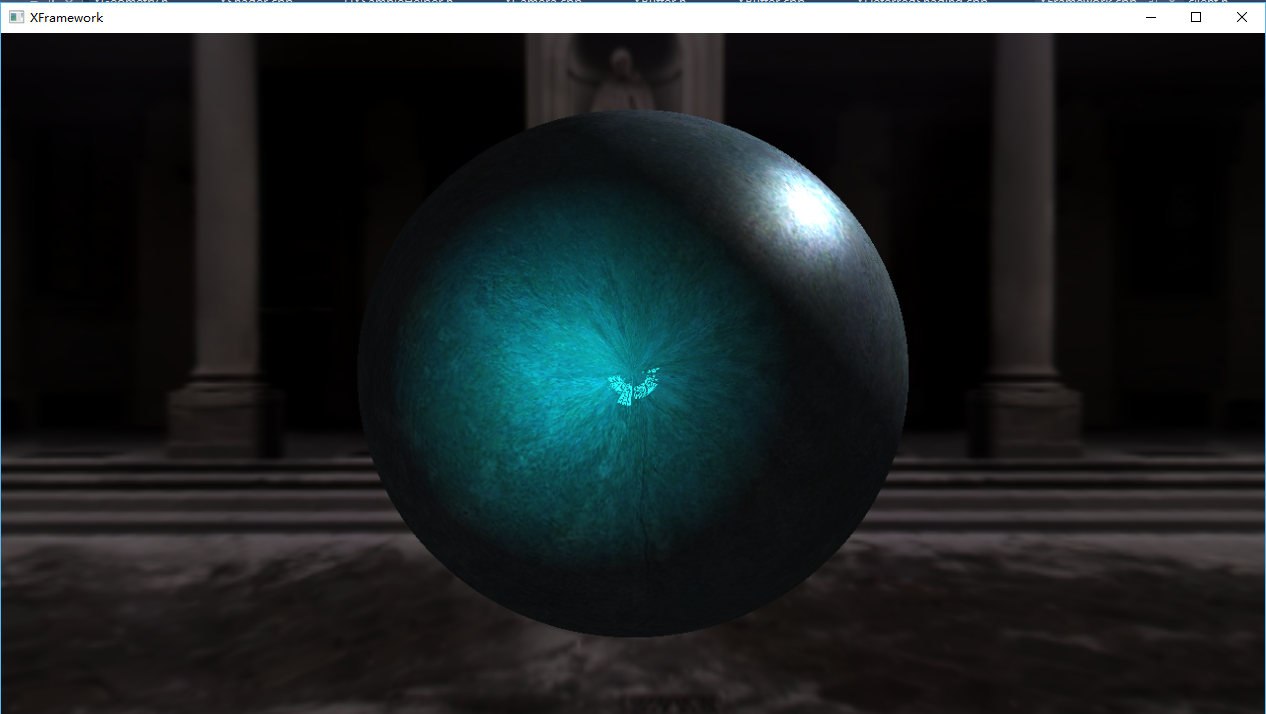
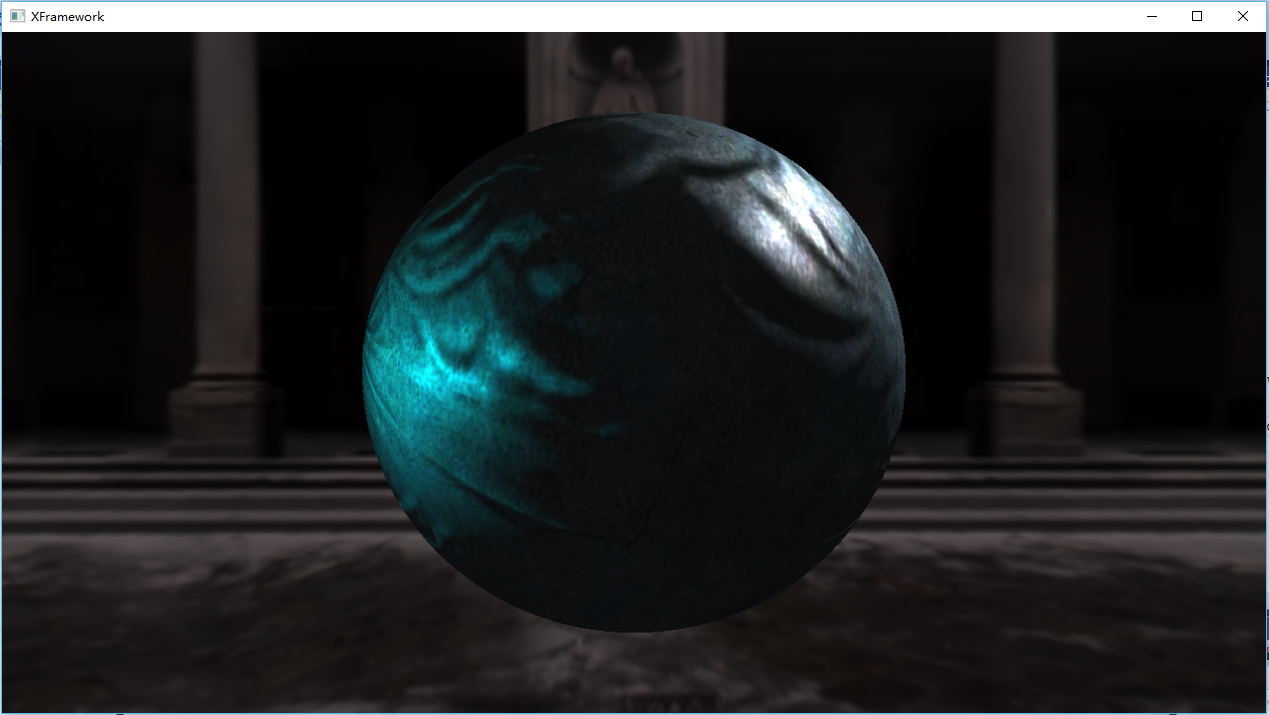
Add files via upload

diff --git a/XFramework.cpp b/XFramework.cpp
@@ -186,8 +186,8 @@ BOOL InitInstance(HINSTANCE hInstance, int nCmdShow)
 		};
 		g_pEntityPBR->InitShader(L"shaders_entity_ds.hlsl", "VSMain", "vs_5_0", "PSMain", "ps_5_0", StandardVertexDescription, 4, ESHADINGPATH_DEFERRED);
 
-		LPCWSTR pTextureFileName[1] = { L"entity.dds" };
-		g_pEntityPBR->InitTexture(L"EntityPBR", 1, pTextureFileName);
+		LPCWSTR pTextureFileName[2] = { L"entity.dds",L"default_normal.dds" };
+		g_pEntityPBR->InitTexture(L"EntityPBR", 2, pTextureFileName);
 
 		//LPCWSTR pTextureFileName[2] = { L"terrain.png",L"wings.bmp" };
 		//g_pEntityAlpha->InitTexture(L"AlphaEntity", 2, pTextureFileName, XTextureSet::ETEXTUREFILETYPE_OTHER);
